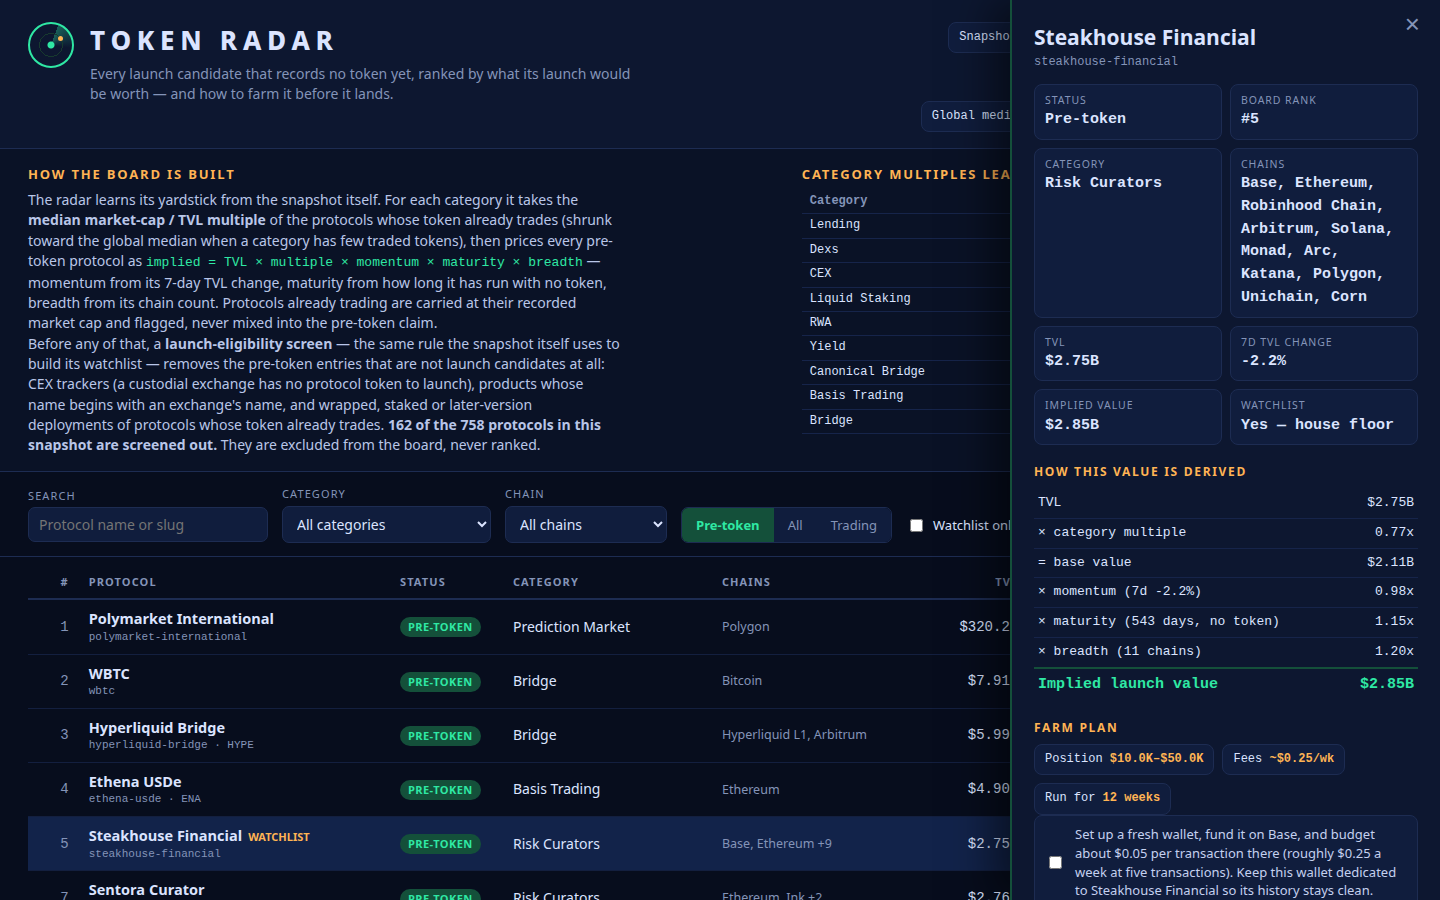
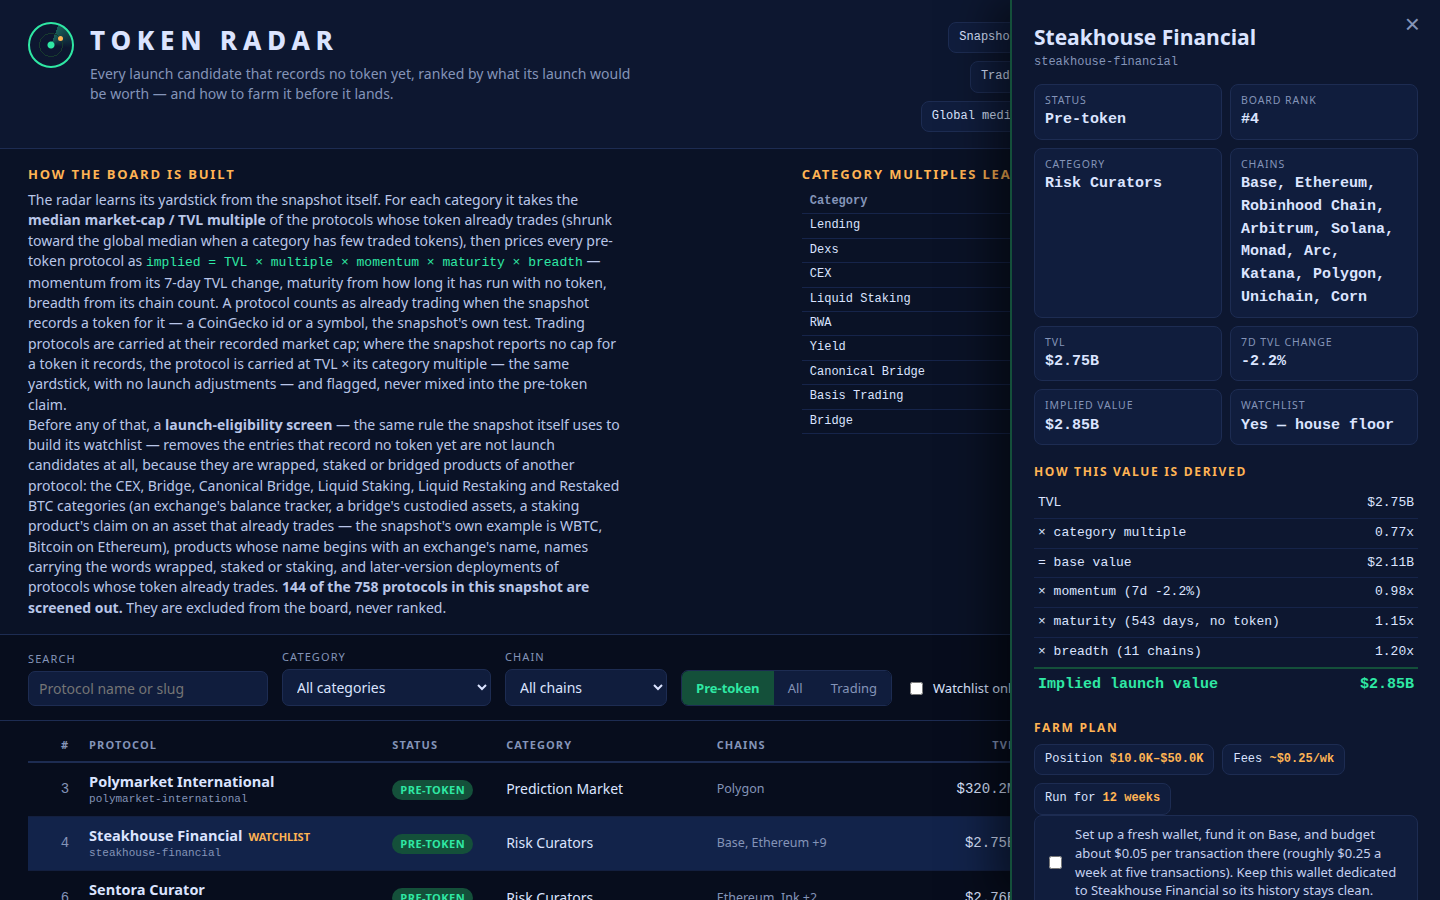
Fix the token test and the eligibility screen: a protocol counts as trading when the snapshot records a token for it (CoinGecko id or symbol), carried at its recorded cap or, where none is reported, at TVL x category multiple with no launch adjustments; the launch screen now mirrors the snapshot wat

diff --git a/lib/model.ts b/lib/model.ts
@@ -23,37 +23,51 @@
 //   breadth            1 + 0.025 x min(chains - 1, 8): more chains, more
 //                      wallets a launch can reach.
 //
-// A protocol whose token already trades is carried at its recorded market
-// cap and flagged "trading", so the board separates what is still to come
-// from what already trades.
+// Whether a token already trades is the snapshot's own test, the one its
+// watchlist definition uses: a protocol records a token when the snapshot
+// gives it a CoinGecko id or a symbol. A recorded market cap alone does
+// not decide it, and neither does a missing one: hundreds of entries name
+// a token (a sub-deployment of Aave, of Uniswap, of Morpho) while the
+// snapshot reports no cap for that entry. Those protocols' tokens exist,
+// so they are carried as "trading", never priced as launches still to
+// come. A trading protocol with a recorded cap is carried at that cap;
+// one without is carried at TVL x its category multiple — the same
+// yardstick, with no launch adjustments — and flagged as unreported, so
+// the board separates what is still to come from what already trades.
 //
-// Before any pricing, a launch-eligibility screen decides which pre-token
-// protocols are launch candidates at all. It mirrors the rule the snapshot
-// itself uses to build its watchlist (kit RULES.txt, "The snapshot"): a
-// protocol is NOT a launch candidate when
+// Before any pricing, a launch-eligibility screen decides which of the
+// protocols that record no token are launch candidates at all. It mirrors
+// the full rule the snapshot itself uses to build its watchlist (input
+// README, "The watchlist"): a protocol is NOT a launch candidate when it
+// is a wrapped, staked or bridged product of another protocol, which the
+// snapshot's rule recognises by
 //
-//   - its category is CEX: the entry tracks a custodial exchange's own
-//     balances, and there is no protocol token waiting to launch;
-//   - its name begins with an exchange's name (Binance, Coinbase, Bybit,
-//     Kraken, Bitget, OKX, Bitfinex or Gemini): the entry is that
+//   - its category: CEX (a custodial exchange's own balances), Bridge or
+//     Canonical Bridge (assets custodied in transit, not a protocol's own
+//     product), or Liquid Staking, Liquid Restaking or Restaked BTC (a
+//     claim on an asset already staked — the snapshot's own example is
+//     WBTC, Bitcoin on Ethereum: a wrapped product, not a launch);
+//   - its name beginning with an exchange's name (Binance, Coinbase,
+//     Bybit, Kraken, Bitget, OKX, Bitfinex or Gemini): the entry is that
 //     exchange's own product, not an independent protocol;
-//   - its name carries a whole word wrapped, staked or staking, or ends in
-//     a version marker (a space followed by V2, v2, 2.0 or the like): a
-//     wrapped, staked or later-version deployment of a protocol whose
-//     token already trades, so the launch it could have has already
+//   - its name carrying a whole word wrapped, staked or staking, or
+//     ending in a version marker (a space followed by V2, v2, 2.0 or the
+//     like): a wrapped, staked or later-version deployment of a protocol
+//     whose token already trades, so the launch it could have has already
 //     happened under the parent name.
 //
 // Screened-out protocols are excluded from the board entirely and counted
 // in the stats the dashboard shows. The screen only decides candidacy for
-// protocols that record no token; a protocol already trading is carried
-// at its recorded market cap either way.
+// protocols that record no token; a protocol that records one is carried
+// as trading either way.
 //
 // A recorded market cap of zero or less is not a price: the snapshot uses
 // it as a placeholder for a token whose cap was not reported, and carrying
 // it onto the board would state an implied value of $0 or less. Such a
-// protocol is treated as recording no cap — it is priced by the model
-// like any other pre-token protocol (and screened like one), and its
-// placeholder cap never enters the multiples yardstick.
+// protocol is treated as recording no cap — if it records a token it is
+// carried as trading at the yardstick value, otherwise it is priced by
+// the model like any other pre-token protocol (and screened like one) —
+// and its placeholder cap never enters the multiples yardstick.
 
 export interface Protocol {
   slug: string;
@@ -115,8 +129,10 @@ export interface ModelStats {
   protocol_count: number;
   pre_token_count: number;
   trading_count: number;
+  trading_unreported_count: number;
   screened_out_count: number;
   watchlist_count: number;
+  watchlist_covered: number;
   global_median_multiple: number;
   multiples: MultipleStat[];
   total_implied_usd: number;
@@ -160,6 +176,15 @@ export function hasRecordedCap(p: Protocol): boolean {
   return p.mcap_usd != null && p.mcap_usd > 0;
 }
 
+/**
+ * The snapshot's own test for a token that exists: it gives the protocol a
+ * CoinGecko id or a symbol. Its watchlist counts a protocol as recording
+ * no token only when both are null.
+ */
+export function recordsToken(p: Protocol): boolean {
+  return p.gecko_id != null || p.symbol != null;
+}
+
 export function computeMultiples(protocols: Protocol[]): { globalMedian: number; stats: MultipleStat[] } {
   const traded = protocols.filter((p) => hasRecordedCap(p) && p.tvl_usd > 0);
   const globalMedian = median(traded.map((p) => (p.mcap_usd as number) / p.tvl_usd));
@@ -191,19 +216,29 @@ function multipleFor(category: string | null, stats: Map<string, MultipleStat>, 
 const EXCHANGE_NAME_PREFIXES = [
   'Binance', 'Coinbase', 'Bybit', 'Kraken', 'Bitget', 'OKX', 'Bitfinex', 'Gemini',
 ];
+// Categories the snapshot's watchlist rule treats as marking a wrapped,
+// staked or bridged product of another protocol rather than an
+// independent protocol awaiting its own launch.
+const PRODUCT_CATEGORIES = [
+  'Bridge', 'Canonical Bridge', 'Liquid Staking', 'Liquid Restaking', 'Restaked BTC',
+];
 const DERIVATIVE_WORD = /\b(?:wrapped|staked|staking)\b/i;
 // A space, then V<digits> (2, 3, 2.1, 12...) or a dotted version (2.0, 3.1...).
 const VERSION_MARKER = /\s(?:[vV]\d+(?:\.\d+)?|\d+\.\d+(?:\.\d+)?)$/;
 
 /**
- * Why a pre-token protocol is not a launch candidate, or null when it is
- * one. The three rules are the snapshot watchlist's own (see the header):
- * CEX category, an exchange's name at the front of the name, or a name
- * that marks the entry as a wrapped, staked or later-version product of
- * a protocol whose token already trades.
+ * Why a protocol that records no token is not a launch candidate, or null
+ * when it is one. The rules are the snapshot watchlist's own (see the
+ * header): a CEX or wrapped/staked/bridged-product category, an
+ * exchange's name at the front of the name, or a name that marks the
+ * entry as a wrapped, staked or later-version product of a protocol
+ * whose token already trades.
  */
 export function launchScreenReason(p: Protocol): string | null {
   if (p.category === 'CEX') return 'CEX category: a custodial exchange tracker';
+  if (p.category !== null && PRODUCT_CATEGORIES.includes(p.category)) {
+    return 'a wrapped, staked or bridged product (' + p.category + ' category)';
+  }
   for (const ex of EXCHANGE_NAME_PREFIXES) {
     if (p.name === ex || p.name.startsWith(ex + ' ')) {
       return 'begins with an exchange name (' + ex + ')';
@@ -424,24 +459,26 @@ export function buildBoard(snapshot: Snapshot): { rows: BoardRow[]; stats: Model
   const statMap = new Map(multStats.map((s) => [s.category, s]));
   const watch = new Set(snapshot.watchlist);
 
-  // Eligibility screen: pre-token protocols that are not launch candidates
-  // never reach the board. Protocols already trading are always carried.
+  // Eligibility screen: protocols that record no token and are not launch
+  // candidates never reach the board. Protocols that record a token are
+  // always carried, as trading.
   const candidates = snapshot.protocols.filter(
-    (p) => hasRecordedCap(p) || launchScreenReason(p) === null,
+    (p) => hasRecordedCap(p) || recordsToken(p) || launchScreenReason(p) === null,
   );
   const screenedOut = snapshot.protocols.length - candidates.length;
 
   const scored = candidates.map((p) => {
-    const trading = hasRecordedCap(p);
-    const multiple = trading
+    const capRecorded = hasRecordedCap(p);
+    const trading = capRecorded || recordsToken(p);
+    const multiple = capRecorded
       ? (p.mcap_usd as number) / Math.max(1, p.tvl_usd)
       : multipleFor(p.category, statMap, globalMedian);
-    const base = trading ? (p.mcap_usd as number) : p.tvl_usd * multiple;
+    const base = capRecorded ? (p.mcap_usd as number) : p.tvl_usd * multiple;
     const momentum = trading || p.change_7d == null ? 1 : 1 + 0.008 * clamp(p.change_7d, -40, 60);
     const days = p.listed_at ? daysBetween(p.listed_at, snapshot.as_of) : null;
     const maturity = trading || days == null ? 1 : 1 + 0.3 * (1 - Math.exp(-(days / 365.25) / 2.2));
     const breadth = trading ? 1 : 1 + 0.025 * Math.min(Math.max(p.chains.length - 1, 0), 8);
-    const implied = trading
+    const implied = capRecorded
       ? (p.mcap_usd as number)
       : Math.max(1, Math.round(base * momentum * maturity * breadth));
     const farm = farmSteps(p, trading, slugHash(p.slug) % 997);
@@ -486,8 +523,10 @@ export function buildBoard(snapshot: Snapshot): { rows: BoardRow[]; stats: Model
     protocol_count: snapshot.protocols.length,
     pre_token_count: scored.filter((r) => r.status === 'pre-token').length,
     trading_count: scored.filter((r) => r.status === 'trading').length,
+    trading_unreported_count: candidates.filter((p) => recordsToken(p) && !hasRecordedCap(p)).length,
     screened_out_count: screenedOut,
     watchlist_count: snapshot.watchlist.length,
+    watchlist_covered: scored.filter((r) => r.watchlist).length,
     global_median_multiple: Math.round(globalMedian * 1000) / 1000,
     multiples: multStats,
     total_implied_usd: scored.filter((r) => r.status === 'pre-token').reduce((s, r) => s + r.implied_value_usd, 0),

diff --git a/dashboard/app.js b/dashboard/app.js
@@ -7,11 +7,15 @@
 // where the multiple is the median market-cap/TVL of the category's traded
 // protocols, shrunk toward the global median; momentum comes from the 7d
 // TVL change, maturity from days listed with no token, breadth from the
-// chain count. Trading protocols are carried at recorded market cap.
-// Before pricing, the model's launch-eligibility screen (the snapshot
-// watchlist's own rule) drops pre-token entries that are not launch
-// candidates: CEX trackers, exchange-named products, and wrapped, staked
-// or later-version deployments of protocols that already trade.
+// chain count. A protocol counts as trading when the snapshot records a
+// token for it (a CoinGecko id or a symbol): it is carried at its recorded
+// market cap, or, where the snapshot reports no cap for that token, at
+// TVL x category multiple with no launch adjustments. Before pricing, the
+// model's launch-eligibility screen (the snapshot watchlist's own rule)
+// drops entries that record no token and are not launch candidates:
+// CEX, Bridge, Canonical Bridge, Liquid Staking, Liquid Restaking and
+// Restaked BTC entries, exchange-named products, and wrapped, staked or
+// later-version deployments of protocols that already trade.
 
 'use strict';
 
@@ -52,8 +56,9 @@ function renderChips() {
     ['Snapshot', stats.as_of],
     ['Protocols scanned', stats.protocol_count],
     ['Pre-token', stats.pre_token_count],
+    ['Trading', stats.trading_count],
     ['Screened out', stats.screened_out_count],
-    ['Watchlist covered', stats.watchlist_count + '/' + stats.watchlist_count],
+    ['Watchlist covered', stats.watchlist_covered + '/' + stats.watchlist_count],
     ['Global median multiple', fmtX(stats.global_median_multiple)],
     ['Total implied (pre-token)', fmtUsd(stats.total_implied_usd)],
   ];
@@ -148,6 +153,13 @@ function renderBoard() {
 
 // ------------------------------------------------------------------ detail
 function breakdownRows(r) {
+  if (r.status === 'trading' && !(r.mcap_usd > 0)) {
+    return '<tr><td>Token recorded in the snapshot</td><td>' + (r.symbol ?? 'yes') + '</td></tr>' +
+      '<tr><td>Market cap</td><td>not reported</td></tr>' +
+      '<tr><td>TVL</td><td>' + fmtUsd(r.tvl_usd) + '</td></tr>' +
+      '<tr><td>&times; category multiple</td><td>' + fmtX(r.multiple) + '</td></tr>' +
+      '<tr class="total"><td>Carried at (yardstick value)</td><td>' + fmtUsd(r.implied_value_usd) + '</td></tr>';
+  }
   if (r.status === 'trading') {
     return '<tr><td>Recorded market cap</td><td>' + fmtUsd(r.mcap_usd) + '</td></tr>' +
       '<tr><td>TVL</td><td>' + fmtUsd(r.tvl_usd) + '</td></tr>' +
@@ -167,8 +179,11 @@ function openDetail(slug) {
   const r = rows.find((x) => x.slug === slug);
   if (!r) return;
   state.slug = slug;
+  const statusLabel = r.status === 'pre-token'
+    ? 'Pre-token'
+    : 'Trading' + (r.symbol ? ' (' + r.symbol + ')' : '') + (r.mcap_usd > 0 ? '' : ' — cap not in snapshot');
   const figs = [
-    ['Status', r.status === 'pre-token' ? 'Pre-token' : 'Trading' + (r.symbol ? ' (' + r.symbol + ')' : '')],
+    ['Status', statusLabel],
     ['Board rank', '#' + r.rank],
     ['Category', r.category],
     ['Chains', r.chains.join(', ') || '—'],

diff --git a/dashboard/index.html b/dashboard/index.html
@@ -27,15 +27,23 @@
       (shrunk toward the global median when a category has few traded tokens), then prices every
       pre-token protocol as <span class="formula">implied = TVL &times; multiple &times; momentum &times; maturity &times; breadth</span> —
       momentum from its 7-day TVL change, maturity from how long it has run with no token,
-      breadth from its chain count. Protocols already trading are carried at their recorded
-      market cap and flagged, never mixed into the pre-token claim.
+      breadth from its chain count. A protocol counts as already trading when the snapshot
+      records a token for it — a CoinGecko id or a symbol, the snapshot's own test. Trading
+      protocols are carried at their recorded market cap; where the snapshot reports no cap
+      for a token it records, the protocol is carried at TVL &times; its category multiple —
+      the same yardstick, with no launch adjustments — and flagged, never mixed into the
+      pre-token claim.
     </p>
     <p>
       Before any of that, a <strong>launch-eligibility screen</strong> — the same rule the
-      snapshot itself uses to build its watchlist — removes the pre-token entries that are
-      not launch candidates at all: CEX trackers (a custodial exchange has no protocol token
-      to launch), products whose name begins with an exchange's name, and wrapped, staked or
-      later-version deployments of protocols whose token already trades.
+      snapshot itself uses to build its watchlist — removes the entries that record no token
+      yet are not launch candidates at all, because they are wrapped, staked or bridged
+      products of another protocol: the CEX, Bridge, Canonical Bridge, Liquid Staking,
+      Liquid Restaking and Restaked BTC categories (an exchange's balance tracker, a
+      bridge's custodied assets, a staking product's claim on an asset that already
+      trades — the snapshot's own example is WBTC, Bitcoin on Ethereum), products whose
+      name begins with an exchange's name, names carrying the words wrapped, staked or
+      staking, and later-version deployments of protocols whose token already trades.
       <strong id="screenedCount"></strong> They are excluded from the board, never ranked.
     </p>
   </div>
@@ -111,7 +119,7 @@
     Board built from the sealed DefiLlama protocols snapshot (TVL, 7-day change, market cap,
     listing day, chains) — no protocol is priced by name; the only names in the code are the
     exchange names in the eligibility screen, the same list the snapshot's own watchlist rule
-    uses. Rerun the program on a fresh snapshot and the board rebuilds itself. Implied values are this radar's own estimates of a
+    uses, and the screen's categories are the snapshot's own too. Rerun the program on a fresh snapshot and the board rebuilds itself. Implied values are this radar's own estimates of a
     future launch's fully diluted value, not predictions that a token will be issued.
     Farm plans are starting points, not financial advice.
   </p>

diff --git a/main.ts b/main.ts
@@ -45,7 +45,7 @@ function main(): void {
     as_of: snap.as_of,
     source: snap.source,
     model:
-      'implied = TVL x category multiple (median market-cap/TVL of the category\'s traded protocols, shrunk to the global median) x momentum (7d TVL change) x maturity (days listed with no token) x breadth (chain count); protocols already trading are carried at recorded market cap. Before pricing, a launch-eligibility screen mirroring the snapshot\'s own watchlist rule excludes pre-token protocols that are not launch candidates: CEX trackers, products whose name begins with an exchange\'s name, and wrapped, staked or later-version deployments of protocols whose token already trades',
+      'implied = TVL x category multiple (median market-cap/TVL of the category\'s traded protocols, shrunk to the global median) x momentum (7d TVL change) x maturity (days listed with no token) x breadth (chain count). A protocol counts as already trading when the snapshot records a token for it (a CoinGecko id or a symbol, the snapshot\'s own test): with a recorded market cap it is carried at that cap; without one it is carried at TVL x category multiple, the yardstick without launch adjustments, and flagged unreported. Before pricing, a launch-eligibility screen mirroring the snapshot\'s own watchlist rule excludes protocols that record no token and are not launch candidates: CEX, Bridge, Canonical Bridge, Liquid Staking, Liquid Restaking and Restaked BTC entries (exchange trackers and wrapped, staked or bridged products), products whose name begins with an exchange\'s name, names carrying the words wrapped, staked or staking, and later-version deployments',
     rows,
   };
   writeFileSync(join(out, 'board.json'), JSON.stringify(board) + '\n');
@@ -62,7 +62,7 @@ function main(): void {
   const pre = rows.filter((r) => r.status === 'pre-token').length;
   console.log(
     'token-radar: ' + rows.length + ' rows (' + pre + ' pre-token, ' +
-    (rows.length - pre) + ' trading), watchlist ' + stats.watchlist_count + '/' +
+    (rows.length - pre) + ' trading), watchlist ' + stats.watchlist_covered + '/' +
     stats.watchlist_count + ' covered, dossier ' + dossier.length + ' bytes',
   );
 }

diff --git a/README.md b/README.md
@@ -4,7 +4,7 @@
 [![rank](https://make.fun/badge/token-radar-01/Xuzhiwei/token-radar/rank.svg)](https://make.fun/bounty/token-radar-01/leaderboard?utm_source=github&utm_medium=readme&utm_campaign=token-radar-01)
 [![reward](https://make.fun/badge/token-radar-01/Xuzhiwei/token-radar/reward.svg)](https://make.fun/bounty/token-radar-01?utm_source=github&utm_medium=readme&utm_campaign=token-radar-01)
 
-Token Radar answers one question: which protocols that record no token yet would be worth the most if they launched one, and what should you do about it now? The program reads the sealed DefiLlama snapshot and learns its yardstick from the snapshot itself — for each category it takes the median market-cap/TVL multiple of the protocols whose token already trades, shrunk toward the global median — then prices every launch candidate as implied = TVL × category multiple × momentum (7-day TVL change) × maturity (how long it has run with no token) × breadth (chain count). Before pricing, a launch-eligibility screen mirroring the snapshot's own watchlist rule removes the entries that are not launch candidates at all: CEX trackers, products whose name begins with an exchange's name, and wrapped, staked or later-version deployments of protocols whose token already trades. Protocols already trading are carried at their recorded market cap and flagged, never mixed into the pre-token claim. Every ranked protocol carries a concrete farm plan generated from its own figures — position sizes scaled to its TVL tier, per-chain transaction costs, a weekly fee budget and an 8–12 week cadence. The dashboard is a static, offline page over the same data: a sortable, filterable board with search, category and chain filters, a pre-token/trading toggle, and a per-protocol detail view that shows the full derivation of its implied value next to its farm plan.
+Token Radar answers one question: which protocols that record no token yet would be worth the most if they launched one, and what should you do about it now? The program reads the sealed DefiLlama snapshot and learns its yardstick from the snapshot itself — for each category it takes the median market-cap/TVL multiple of the protocols whose token already trades, shrunk toward the global median — then prices every launch candidate as implied = TVL × category multiple × momentum (7-day TVL change) × maturity (how long it has run with no token) × breadth (chain count). Whether a token already trades is the snapshot's own test, the one its watchlist definition uses: the snapshot records a token when it gives the protocol a CoinGecko id or a symbol. That distinction matters, because hundreds of entries name a token — a sub-deployment of Aave, of Uniswap, of Morpho — while the snapshot reports no market cap for the entry; an earlier version of this board priced those as launches still to come, and they are not. A protocol that records a token is carried as trading: at its recorded market cap where the snapshot reports one, and where it does not, at TVL × its category multiple — the same yardstick with no launch adjustments — flagged as unreported either way, never mixed into the pre-token claim. Before pricing, a launch-eligibility screen mirroring the snapshot's own watchlist rule removes the entries that record no token yet are not launch candidates at all, because they are wrapped, staked or bridged products of another protocol: the CEX, Bridge, Canonical Bridge, Liquid Staking, Liquid Restaking and Restaked BTC categories (the snapshot's own example is WBTC — Bitcoin on Ethereum, a wrapped product with no launch of its own ahead of it), products whose name begins with an exchange's name, names carrying the words wrapped, staked or staking, and later-version deployments of protocols whose token already trades. Every ranked protocol carries a concrete farm plan generated from its own figures — position sizes scaled to its TVL tier, per-chain transaction costs, a weekly fee budget and an 8–12 week cadence. The dashboard is a static, offline page over the same data: a sortable, filterable board with search, category and chain filters, a pre-token/trading toggle, and a per-protocol detail view that shows the full derivation of its implied value next to its farm plan.
 
 ## Run it
 
